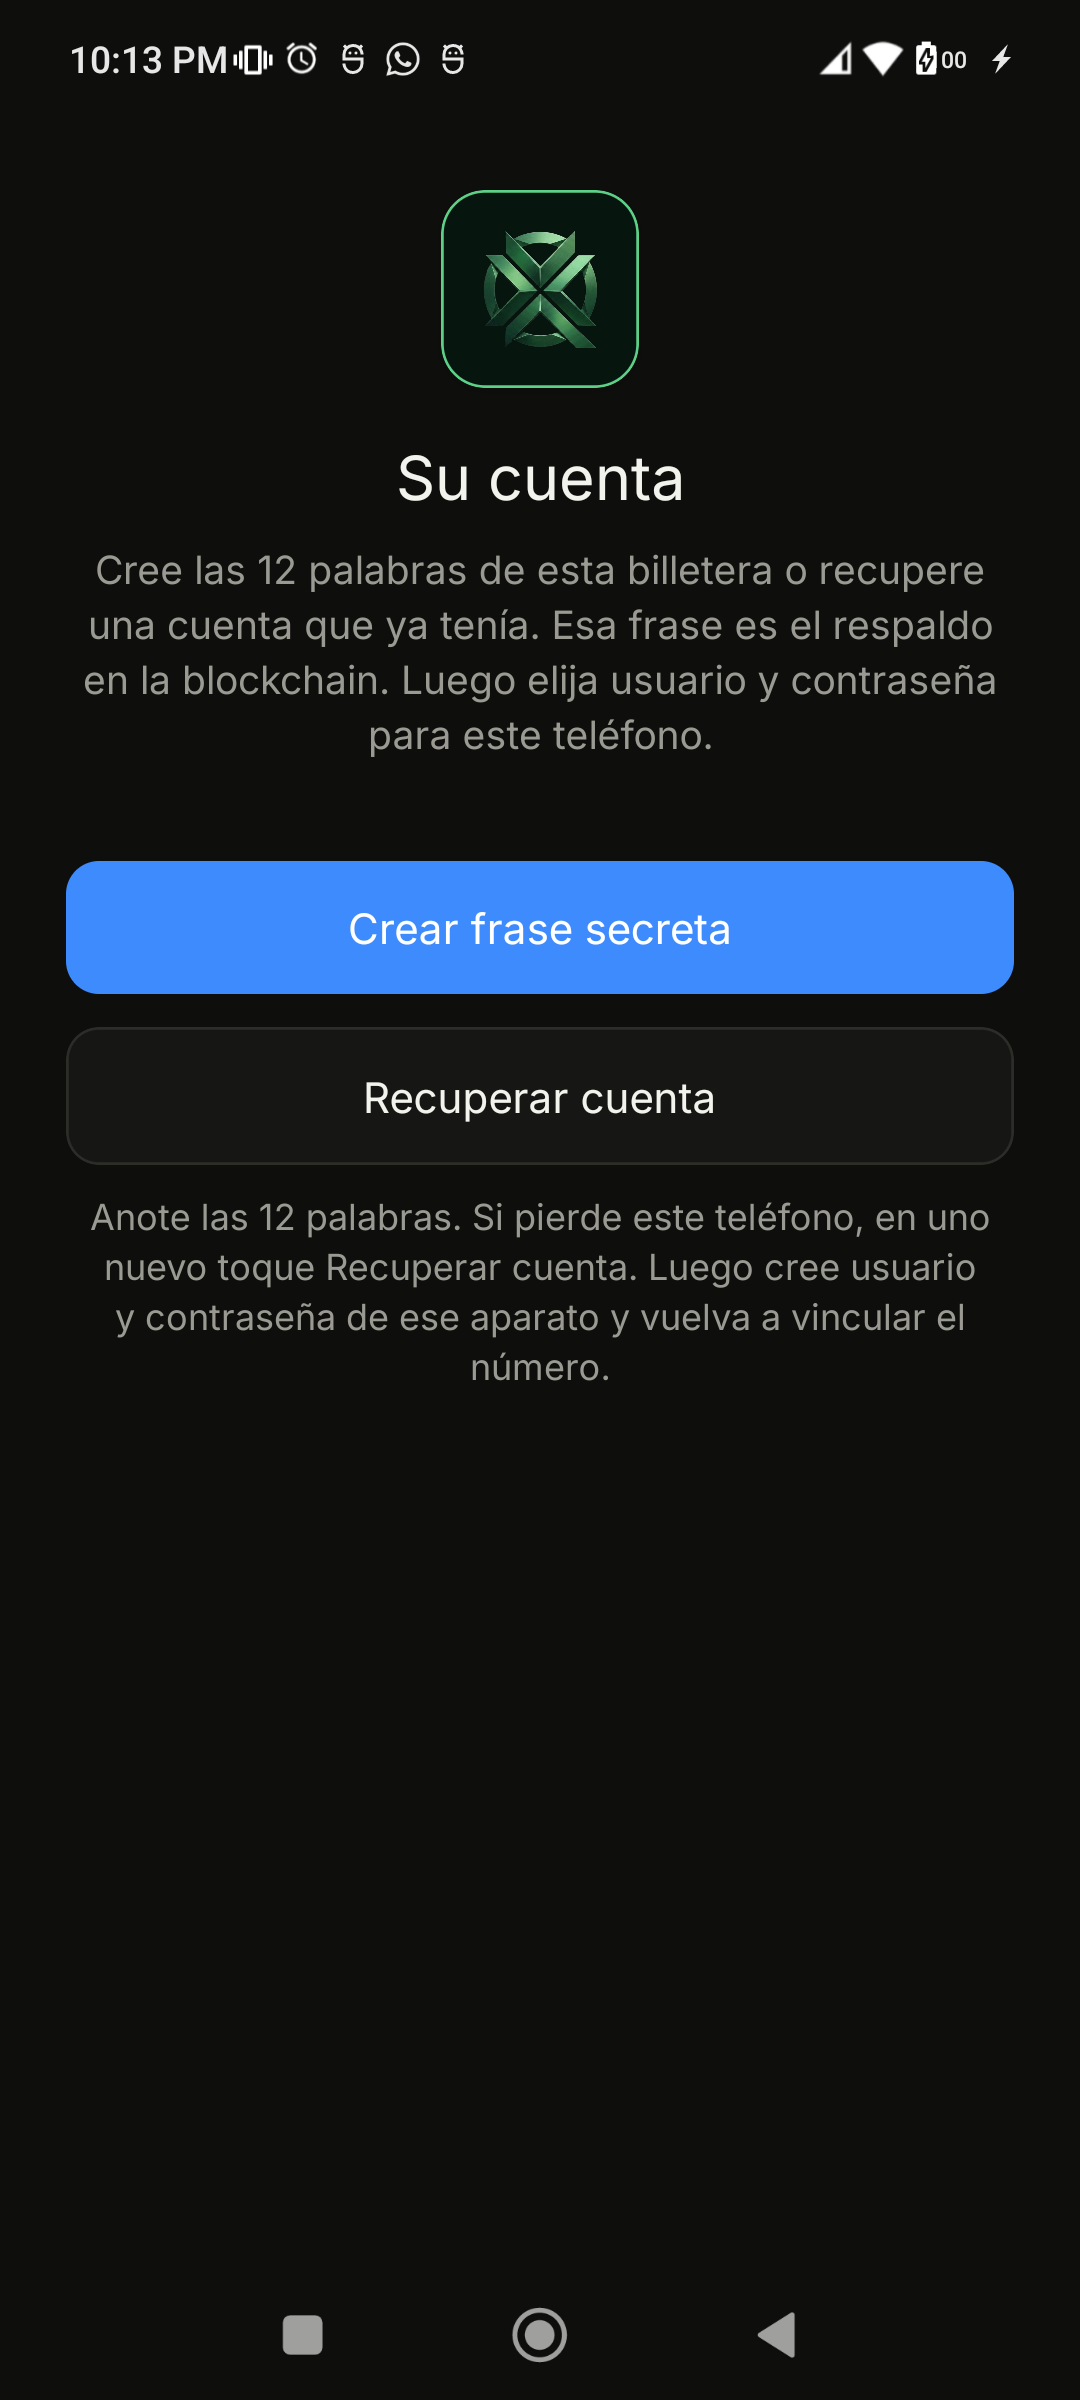
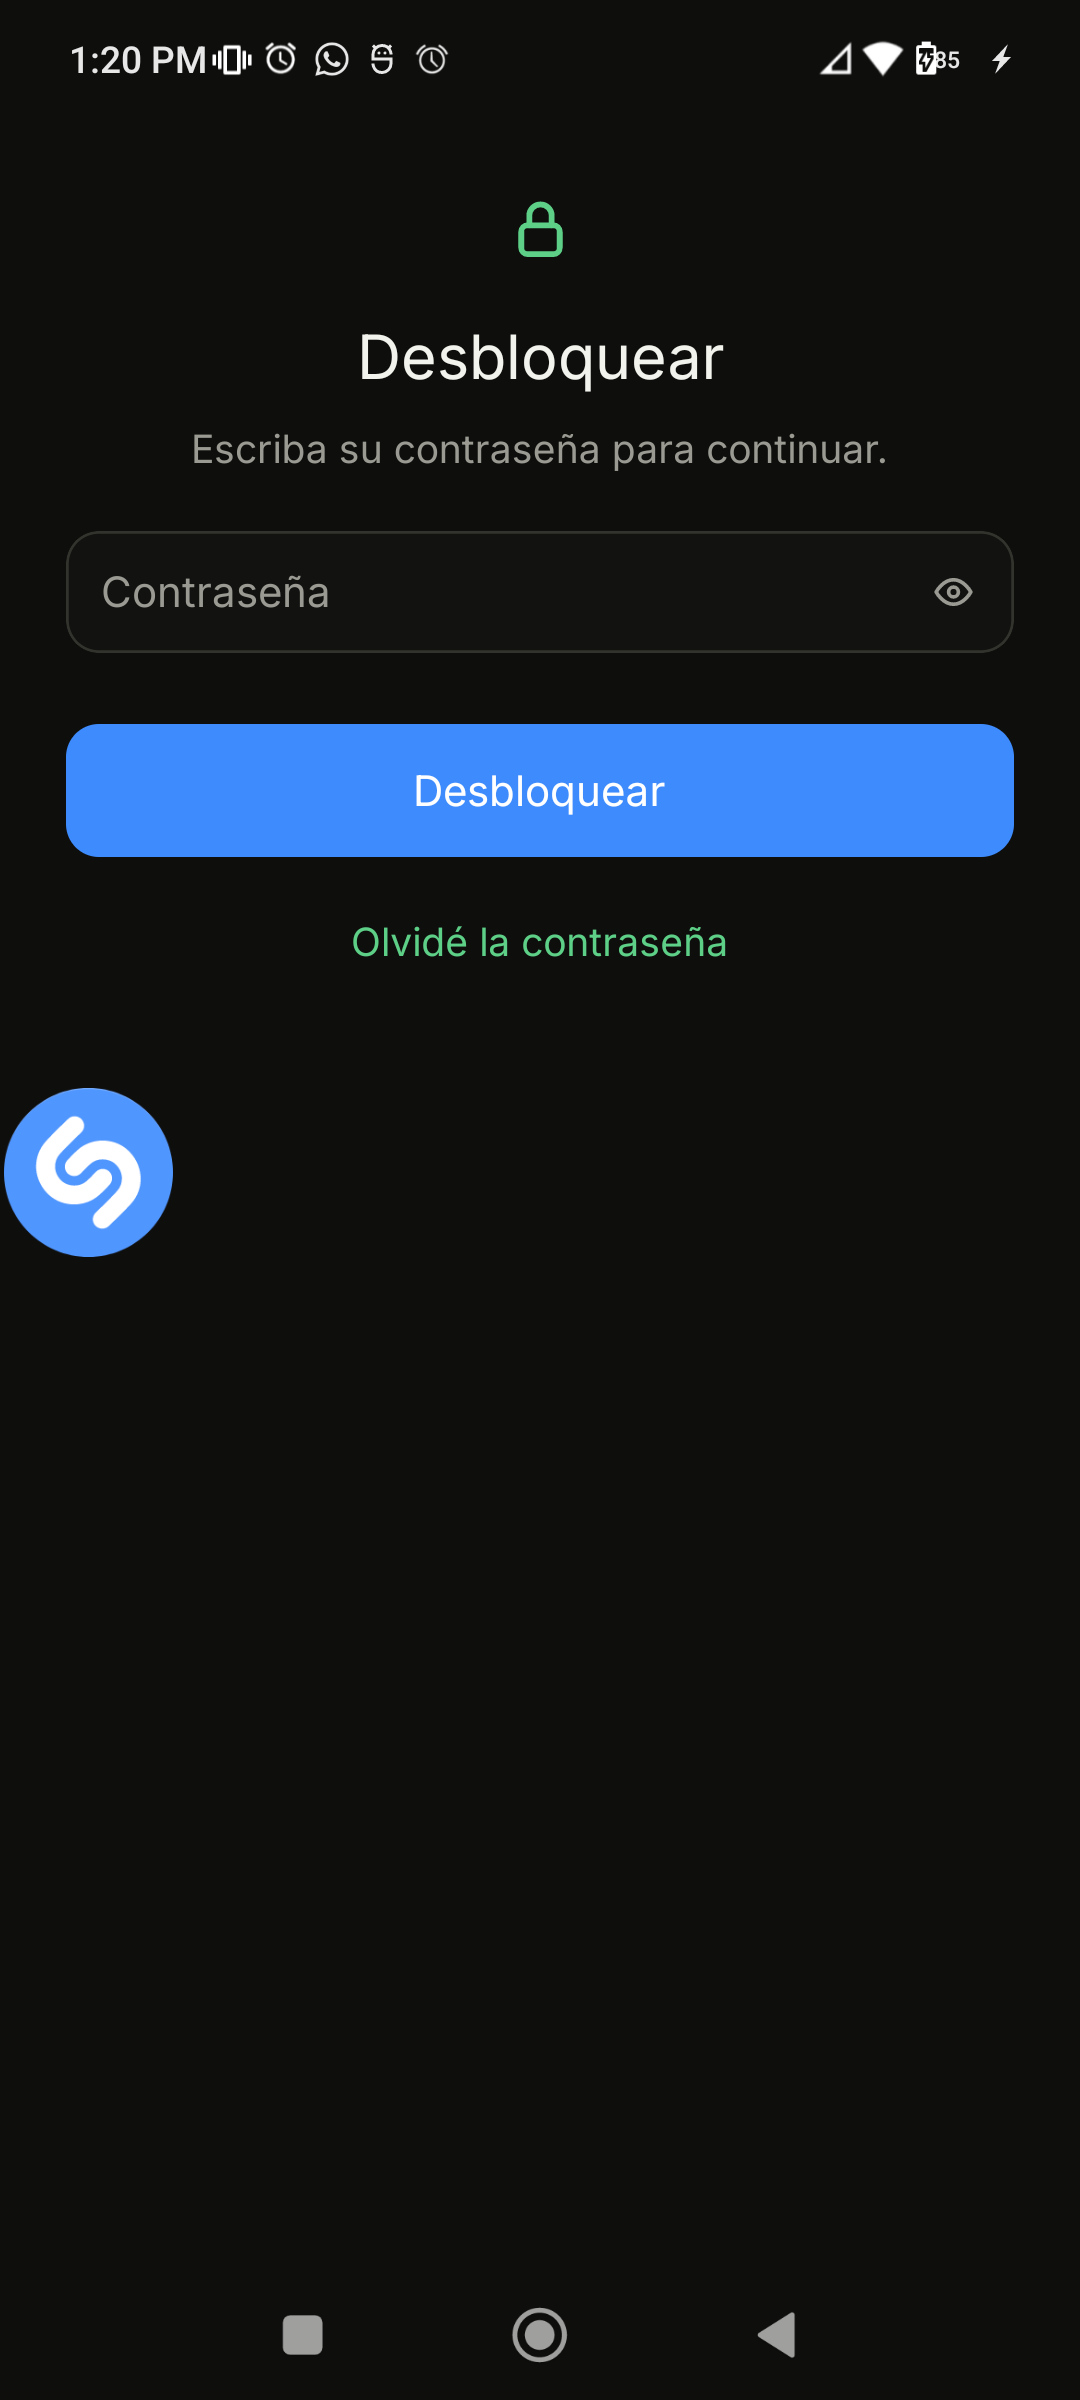
Descripción de lo que cambiaste

Changed region(s): [[0.0, 0.0625, 0.9472, 0.5938], [0.0917, 0.0, 0.4278, 0.0312], [0.8556, 0.0, 0.8861, 0.0312]]

diff --git a/test/cyber-hardening.test.js b/test/cyber-hardening.test.js
@@ -559,7 +559,6 @@ describe('account entry — password, email and session', () => {
     function nextEntryScreen({ accountOnPhone, sessionSaved, wrapReady, unlockOn }) {
       if (accountOnPhone === null) return 'signIn';
       if (!accountOnPhone) return 'welcome';
-      if (!sessionSaved) return 'signIn';
       if (unlockOn) return 'unlock';
       if (wrapReady) return 'app';
       return 'unlock';
@@ -599,7 +598,7 @@ describe('account entry — password, email and session', () => {
     expect(nextEntryScreen({ accountOnPhone: true, sessionSaved: true, wrapReady: false, unlockOn: false })).to.equal('unlock');
     expect(nextEntryScreen({ accountOnPhone: true, sessionSaved: true, wrapReady: true, unlockOn: false })).to.equal('app');
     expect(nextEntryScreen({ accountOnPhone: true, sessionSaved: true, wrapReady: false, unlockOn: true })).to.equal('unlock');
-    expect(nextEntryScreen({ accountOnPhone: true, sessionSaved: false, wrapReady: false, unlockOn: false })).to.equal('signIn');
+    expect(nextEntryScreen({ accountOnPhone: true, sessionSaved: false, wrapReady: false, unlockOn: false })).to.equal('unlock');
     expect(accountOnPhoneFromProbes(null, false)).to.equal(null);
     expect(accountOnPhoneFromProbes(false, false)).to.equal(false);
     expect(nextEntryScreen({ accountOnPhone: null, sessionSaved: false, wrapReady: false, unlockOn: false })).to.equal('signIn');

diff --git a/utils/accountEntry.ts b/utils/accountEntry.ts
@@ -51,7 +51,7 @@ export function accountOnPhoneFromProbes(
   return false;
 }
 
-/** Tras Guardar sesión no se vuelve a crear/iniciar/recuperar. */
+/** Hay cuenta en este teléfono: desbloqueo. Iniciar sesión solo si el almacén no responde. */
 export function nextEntryScreen(input: {
   accountOnPhone: boolean | null;
   sessionSaved: boolean;
@@ -60,7 +60,6 @@ export function nextEntryScreen(input: {
 }): EntryScreen {
   if (input.accountOnPhone === null) return 'signIn';
   if (!input.accountOnPhone) return 'welcome';
-  if (!input.sessionSaved) return 'signIn';
   if (input.unlockOn) return 'unlock';
   if (input.wrapReady) return 'app';
   return 'unlock';

diff --git a/components/AppLockGate.tsx b/components/AppLockGate.tsx
@@ -356,7 +356,11 @@ export const AppLockGate: React.FC<AppLockGateProps> = ({ children }) => {
     }
     await restoreSavedSessionWrap();
     const wrapReady = Boolean(getWalletWrapKey());
-    const sessionSaved = await isSessionSaved();
+    let sessionSaved = await isSessionSaved();
+    if (!sessionSaved) {
+      await raceMs(markSessionSaved(), 2000, undefined);
+      sessionSaved = true;
+    }
     if (sessionSaved) await raceMs(ensureUnlockEnabled().catch(() => undefined), 2000, undefined);
     const unlockOn = await isAuthEnabled('unlock');
     const entry = nextEntryScreen({

diff --git a/i18n/LanguageContext.tsx b/i18n/LanguageContext.tsx
@@ -45,7 +45,7 @@ function applyRtl(next: Lang): boolean {
 
 export const LanguageProvider: React.FC<{ children: React.ReactNode }> = ({ children }) => {
   const [lang, setLangState] = useState<Lang>(detectDeviceLang);
-  const [langReady, setLangReady] = useState(true);
+  const [langReady, setLangReady] = useState(false);
   const [langChosen, setLangChosen] = useState(false);
 
   useEffect(() => {

diff --git a/MEMORIA.md b/MEMORIA.md
@@ -4,6 +4,7 @@
 Idioma primero. Luego usuario y contrasena de 8 a 66 con mayuscula, numero y simbolo. Despues las 24 palabras. Esa misma frase se ve o se reemplaza en Ajustes y sirve para cambiar de telefono.
 
 ## Decisiones
+- [2026-09-13] Con cuenta en este telefono no se vuelve a Iniciar sesion; Iniciar sesion solo si el almacen no responde.
 - [2026-09-13] Por defecto entra en Real. Si el usuario abre Demo, al reabrir vuelve a Demo. Si no hay modo guardado, Real.
 - [2026-09-12] Contraseña del celular: minimo 8, maximo 66, con mayuscula, numero y simbolo. Frase nueva siempre 24 palabras BIP-39; recuperar acepta 12 si la cuenta es antigua.
 - [2026-09-12] Una sola frase BIP-39. Se revela solo tras el candado. En Ajustes se consulta o se sustituye. Cambiar de aparato exige esa frase.
@@ -33,9 +34,10 @@ Idioma primero. Luego usuario y contrasena de 8 a 66 con mayuscula, numero y sim
 - [2026-09-12] Correo y contrasena son obligatorios solo para iniciar sesion. Tambien son metodos opcionales para desbloquear, pedir, pagar y transferir, junto a PIN, huella y autenticador si estan registrados.
 - [2026-09-12] En Como confirma solo aparecen metodos ya registrados: PIN, huella o autenticador no se pueden elegir si no estan activos.
 - [2026-09-12] Lo unico obligatorio para iniciar sesion es contrasena y correo. Desbloquear, pedir, pagar y transferir siguen opcionales.
-- [2026-09-12] Desbloquear, iniciar sesion, pedir, pagar y transferir son opcionales. Interruptor + metodo (contrasena, PIN, huella, autenticador). Huella y llave son lo mismo. Cada ajuste editable tiene Guardar.
 
 ## Cambios realizados
+- [2026-09-13] Si hay contraseña en el telefono abre Desbloquear, no Iniciar sesion. Demo live 2000 USDT.
+- [2026-09-13] Auditoria en vivo: Metro se habia caido; app abre Iniciar sesion con cuenta en el telefono. Idioma ya no pinta el selector antes de leer AsyncStorage.
 - [2026-09-13] Primera apertura en Real. Luego se recuerda el ultimo modo (Demo o Real) en AsyncStorage.
 - [2026-09-13] Alta: no marca la frase hasta Confirmar; candado no pinta Crear antes de boot; wrap key async; identidad Real falla cerrada si el RPC no responde.
 - [2026-09-13] Auditoria: candado ya no trata un timeout de SecureStore como alta nueva; Demo live operativo; mainnet sigue sin contrato
@@ -84,11 +86,9 @@ Idioma primero. Luego usuario y contrasena de 8 a 66 con mayuscula, numero y sim
 - [2026-09-12] Inicio de sesion fijo: contrasena y correo. Sin interruptor. El alta ya no salta el correo.
 - [2026-09-12] Como confirma sin textos extra: interruptor, metodo y Guardar. Quitada la fila duplicada de llave de acceso.
 - [2026-09-12] Confirmacion de prestamo opcional en Seguridad. Contraseña obligatoria al entrar. Huella o llave siguen siendo atajo opcional.
-- [2026-09-12] Quito la confirmacion de clave al solicitar o pagar prestamo. Sigue en transferencias entre billeteras, pool y donar.
-- [2026-09-12] Auditoria live: Credito y Perfil mostraban 1/1000 y Solicitar. El tope por defecto pasa a 100 hasta que el contrato confirme 1000.
 
 ## No olvidar / no romper
 (puntos críticos)
 
 ## Última sesión
-[2026-09-13] Decisión: Por defecto entra en Real. Si el usuario abre Demo, al reabrir vuelve a Demo. Si no hay modo guardado, Real.
+[2026-09-13] Decisión: Con cuenta en este telefono no se vuelve a Iniciar sesion; Iniciar sesion solo si el almacen no responde.

diff --git a/VISION.md b/VISION.md
@@ -74,6 +74,7 @@
 - Alta: crear frase secreta de 24 palabras o recuperar cuenta; luego usuario y contrasena del dispositivo (8 a 66, mayúscula, número y símbolo). Si se pierde el celular se recupera con las 24 palabras en un telefono nuevo.
 - Contraseña del celular 8 a 66 con mayuscula, numero y simbolo. Frase secreta nueva de 24 palabras.
 - primera apertura entra en Real; luego la app recuerda el ultimo modo abierto (Demo o Real)
+- auditoria profunda en vivo y correccion de todo lo que falle para dejar Demo productivo
 
 ## 📈 Historial de Evolución
 - [2026-09-11 02:27] VISION.md inicializado para proyecto 'Magno' (tipo: react-native)
@@ -123,3 +124,4 @@
 - [2026-09-12 21:40] Idea añadida al backlog: "Alta: crear frase secreta o recuperar cuenta; luego usuario y contrasena del dis"
 - [2026-09-12 22:40] Idea añadida al backlog: "Contraseña del celular 8 a 66 con mayuscula, numero y simbolo. Frase secreta nue"
 - [2026-09-13 01:08] Idea añadida al backlog: "primera apertura entra en Real; luego la app recuerda el ultimo modo abierto (De"
+- [2026-09-13 13:12] Idea añadida al backlog: "auditoria profunda en vivo y correccion de todo lo que falle para dejar Demo pro"

diff --git a/CONTEXTO.md b/CONTEXTO.md
@@ -237,6 +237,8 @@ contracts/QuatriviumCredit.sol → OpenZeppelin v5 (Pausable, ReentrancyGuard, S
 ## Historial de cambios importantes
 | Fecha | Cambio | Razón |
 |-------|--------|-------|
+| 2026-09-13 | Auditoria profunda: nextEntryScreen va a desbloqueo si hay cuenta local. Demo 2000 USDT operativo. Real y Twilio siguen del fundador. | — |
+| 2026-09-13 | Auditoria 2026-09-13: Demo live 2000 USDT operativo; Real sin contrato; LanguageWelcome espera el idioma guardado. | — |
 | 2026-09-13 | Primera apertura en Real; AppMode espera AsyncStorage y recuerda el ultimo modo abierto. | — |
 | 2026-09-13 | Auditoria 2026-09-13: probePasswordSet distingue vacio de almacén colgado. Hardhat 116/116, cyber 28/28, Demo 0xD2d2A9 OPERATIVO. Mainnet y Twilio siguen siendo acciones del fundador. | — |
 | 2026-09-12 | Auditoria profunda: 116 tests Hardhat, Demo live OPERATIVO. failOpen no abre Crear frase si el candado no responde. | — |
